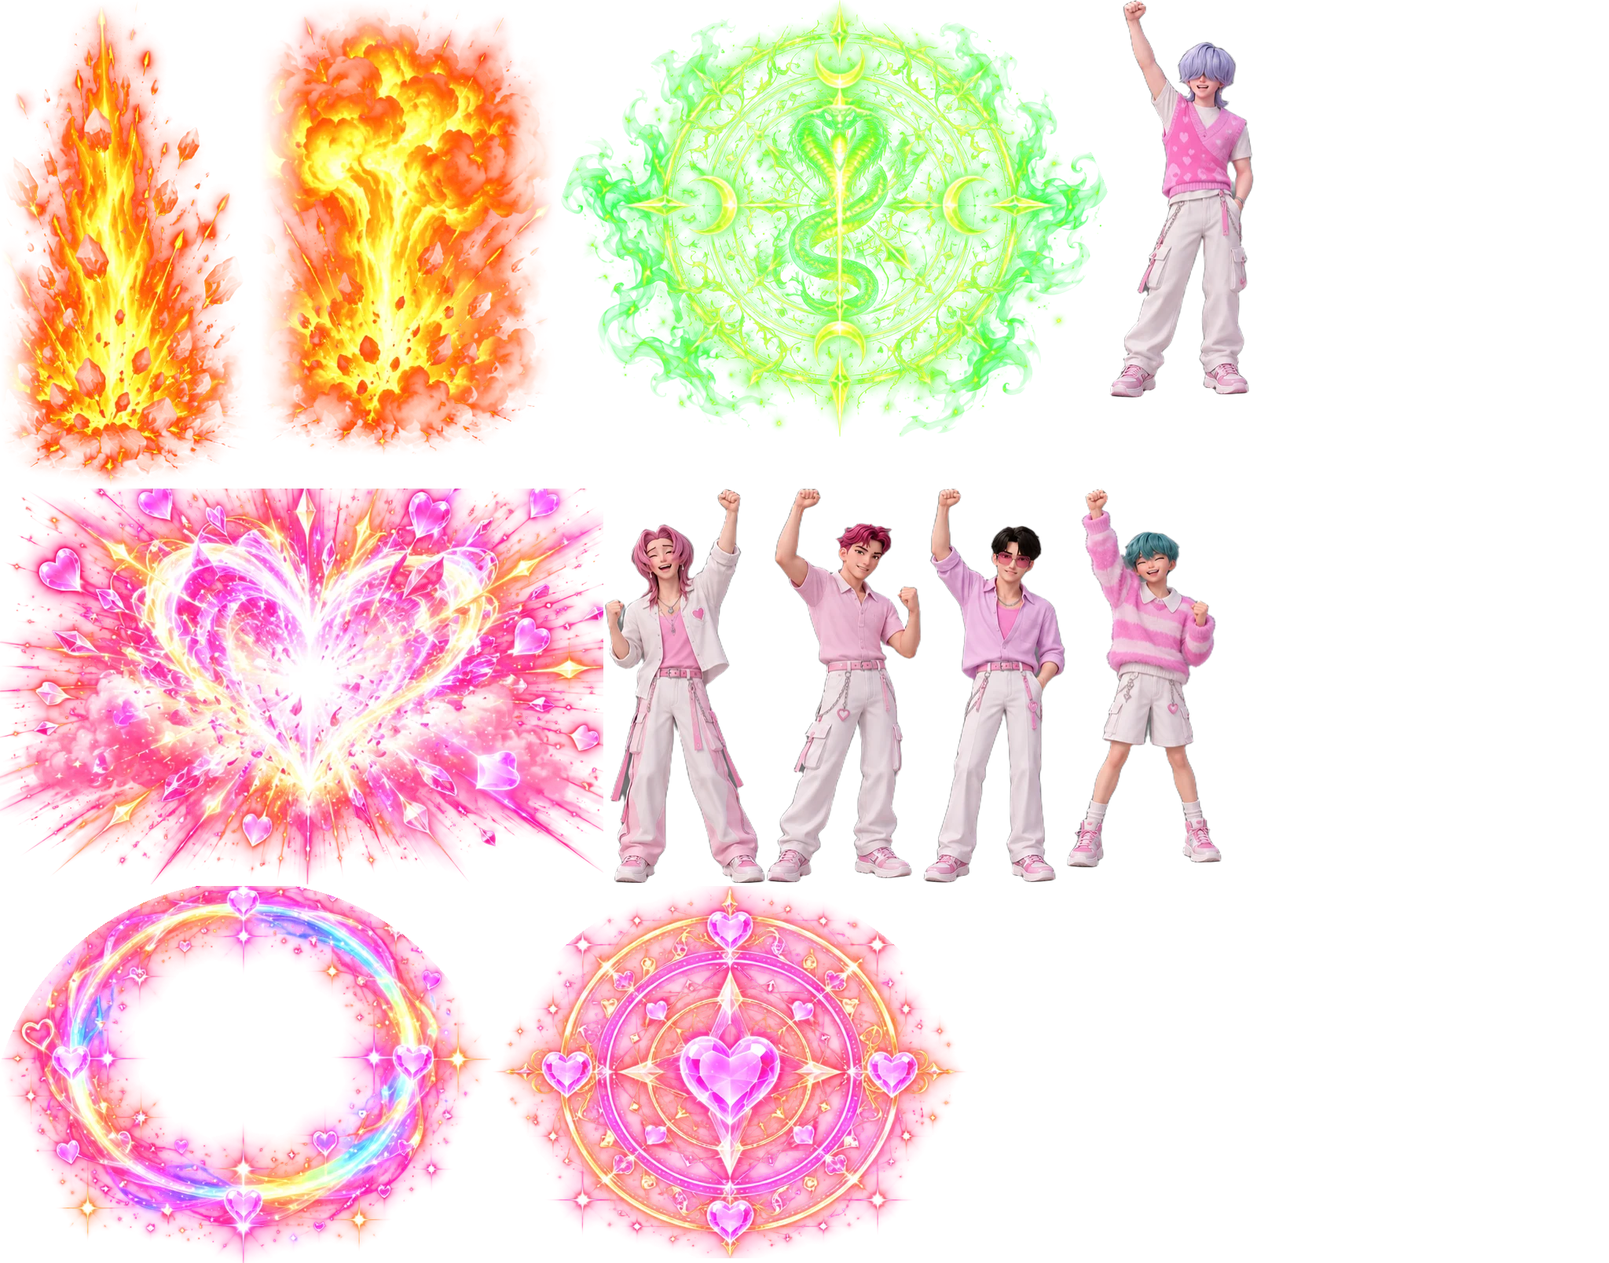
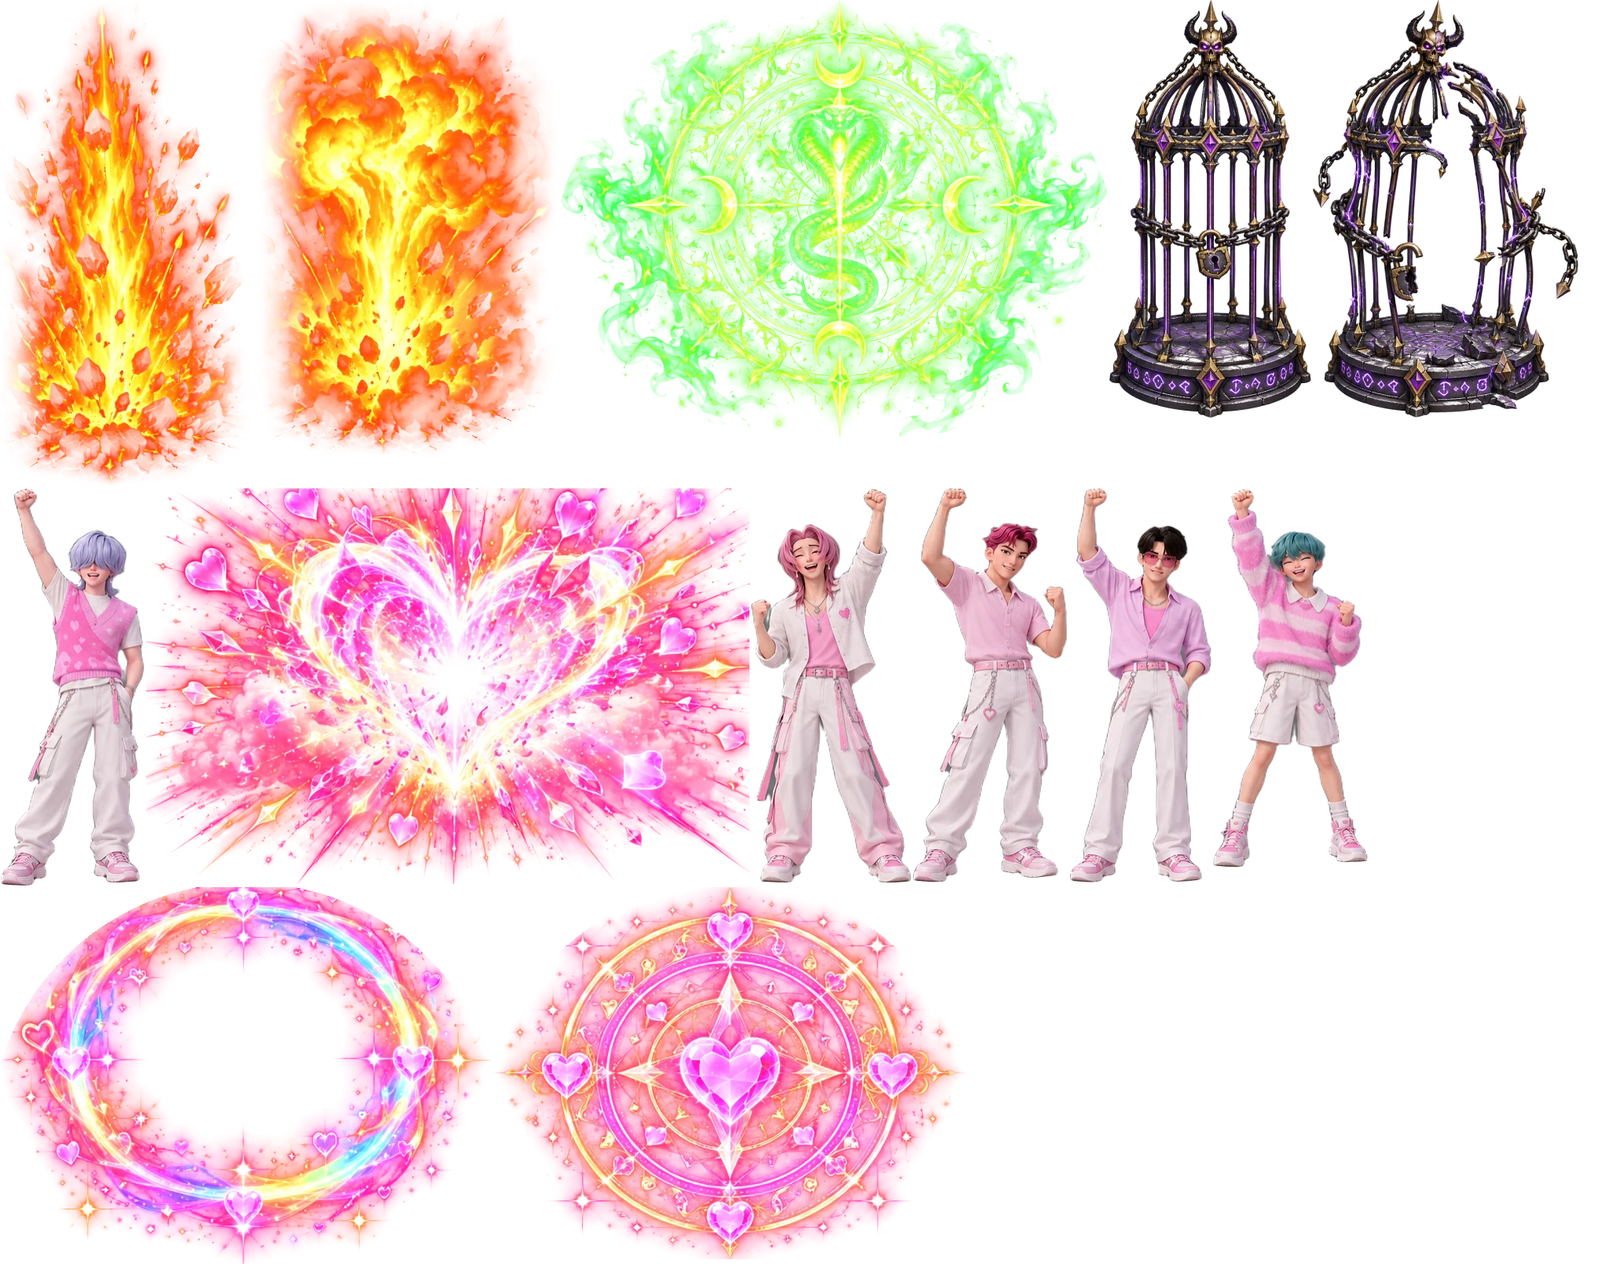
v3: map 2 đường mới không vòng, lồng giam HUNTR/X to giữa sân trên đường + ổ quái canh, cảnh giải cứu (zoom, thoát lồng, tuyệt chiêu diệt quái, cảm ơn), các chị thấp lại 80%, nút bản mới ở góc trên
Claude-Session: https://claude.ai/code/session_018CdmaGRbzjkocUF5TVUzxd

diff --git a/index.html b/index.html
@@ -97,7 +97,7 @@
   #banner.show { opacity: 1; transform: scale(1); }
 
   /* Screens */
-  .ver { margin-top: 1.4em; display: flex; gap: .8em; justify-content: center; align-items: center; font-size: .78em; opacity: .85; }
+  .ver { position: absolute; top: max(1.2vh, env(safe-area-inset-top)); right: max(1.5vw, env(safe-area-inset-right)); display: flex; gap: .8em; justify-content: center; align-items: center; font-size: .78em; opacity: .85; }
   .ver button { font: inherit; font-weight: 700; color: #fff; background: rgba(255,255,255,.14); border: 1px solid rgba(255,255,255,.35); border-radius: 99px; padding: .35em 1em; }
   .ver button.new { background: #ff5a9d; border-color: #ffd1e6; opacity: 1; animation: verPulse 1s ease-in-out infinite alternate; }
   @keyframes verPulse { to { transform: scale(1.08); } }
@@ -184,8 +184,8 @@
     <div class="help"><span>Cần trái: <b>đi khắp nơi</b></span><span>Bé <b>tự bắn</b> quái gần nhất</span><span>Đầy năng lượng: <b>Tuyệt chiêu</b></span></div>
     <p id="loading">Đang tải hình ảnh…</p>
     <div class="row"><button class="btn" id="startBtn" hidden>Chơi một mình</button><button class="btn ghost" id="coopBtn" hidden>Chơi 2 người</button></div>
-    <div class="ver"><span id="verNum"></span><button id="verBtn">Kiểm tra bản mới</button></div>
   </div>
+  <div class="ver"><span id="verNum"></span><button id="verBtn">Kiểm tra bản mới</button></div>
 </div>
 
 <div class="screen" id="coopScreen" hidden>
@@ -259,7 +259,7 @@
   let META = null, ready = false;
   function loadImg(src) { return new Promise((res, rej) => { const i = new Image(); i.onload = () => res(i); i.onerror = rej; i.src = src; }); }
   // ---------------------------------------------------------------- version: the site build stamps BUILD_VER and writes version.json beside the page
-  const BUILD_VER = "261025.1614", isBuilt = !BUILD_VER.startsWith("__");
+  const BUILD_VER = "261025.1627", isBuilt = !BUILD_VER.startsWith("__");
   async function latestVer() {
     try { return (await (await fetch("version.json?x=" + Date.now(), { cache: "no-store" })).json()).v; } catch (e) { return null; }
   }
@@ -499,7 +499,7 @@
       deco: [["tree", 3], ["bush", 4], ["mushrooms", 1], ["pumpkin2", 1], ["pumpkin3", 1]],
       gr: { base: "#679c4a", patch: ["#84b75c", "#558a3e", "#76a94f"], blade: ["#93c96a", "#4f8a3a", "#a6d77a"], dot: ["#ffd3f0", "#fff3b0", "#ffffff", "#ff9ec7", "#c9b6ff"], nDot: 70,
         stone: ["#e3d4b4", "#d8c7a3", "#cdb995"], gap: "#9c8a6c", edge: "#6f5d44" } },
-    { name: "Màn 2: Rừng Ma", seed: 2207, path: "loop", arena: true, boss: { art: "mboss_d1", name: "Nhện Chúa Rừng Ma", hp: 40, tip: "Nhện chúa nhảy vồ và phun tơ!", summon: "spider", style: "spider" }, quota: 140, spawn: [0.8, 1.7], camps: 10, pets: ["zoey"],
+    { name: "Màn 2: Rừng Ma", seed: 2207, path: "bends", arena: true, boss: { art: "mboss_d1", name: "Nhện Chúa Rừng Ma", hp: 40, tip: "Nhện chúa nhảy vồ và phun tơ!", summon: "spider", style: "spider" }, quota: 140, spawn: [0.8, 1.7], camps: 10, pets: ["zoey"],
       kinds: [["spider", 3, 0], ["ghost", 2, 0], ["bat", 2, 0.1], ["mummy", 2, 0.3]],
       deco: [["tree", 4], ["mushrooms", 4], ["bush", 2], ["pumpkin3", 1]],
       gr: { base: "#3f5340", patch: ["#536b4a", "#2f3f34", "#4d4466", "#45405c"], blade: ["#5f7d55", "#2c3a2e", "#6b5f86"], dot: ["#b9a4ff", "#7cf2c6", "#e0b8ff"], nDot: 45,
@@ -521,7 +521,7 @@
       gr: { base: "#241a38", patch: ["#2e2248", "#1d1530", "#3a2a58"], blade: ["#3b2d58", "#2a2044"], dot: ["#ff6ec7", "#7cf2ff", "#ffd34d"], nDot: 24, tiles: true,
         stone: ["#3a2f55", "#332a4c", "#2c2442"], gap: "#18122a", edge: "#120c20" } },
   ];
-  const PATH_W = 270, STEP = 40, ARENA_R = 860, MAX_MONS = 120;
+  const PATH_W = 270, STEP = 40, ARENA_R = 860, MAX_MONS = 120, PLAZA_R = 400;
   // each level brings a stronger breed of the same monsters, tinted so it reads as new: hp multiplier, speed, hue.
   // Health also grows with the girls' level, so the monsters never turn into paper.
   const TIERS = [
@@ -635,7 +635,7 @@
 
   // ---------------------------------------------------------------- game state
   const G = { mode: "title", level: 0, t: 0, lt: 0, frame: 0, stars: 0, hearts: 5, energy: 0, camX: 0, camY: 0, shake: 0, fade: 0, fadeDir: 0, onFade: null,
-    mons: [], parts: [], shots: [], pshots: [], foes: [], items: [], drops: [], gems: [], rings: [], quakes: [], chests: [], cages: [], deco: [], lamps: [],
+    mons: [], parts: [], shots: [], pshots: [], foes: [], items: [], drops: [], gems: [], rings: [], quakes: [], plazas: [], chests: [], cages: [], deco: [], lamps: [],
     portal: null, arena: null, boss: null, ult: null, nextId: 1, lvl: null, kills: 0, lvKills: 0, spawnAcc: 0, surgeT: 30, arenaLock: false, won: false, path: null };
   const P = { x: 0, y: 0, vx: 0, vy: 0, z: 0, face: 0, flip: false, moving: false, dist: 0, inv: 0, hurtT: 0, slowT: 0, castT: 0, shootCd: 0, dead: false, winT: 0,
     elem: null, elemT: 0, lv: 1, xp: 0, prog: 0, pets: [] };
@@ -658,6 +658,9 @@
     if (shape === "river") {
       const n = 8, half = WORLD * 0.38, ph = R() < 0.5 ? 0 : Math.PI;
       for (let i = 0; i < n; i++) { const t = i / (n - 1); cps.push(rot(-half + 2 * half * t, Math.sin(t * Math.PI * 2.5 + ph) * 1500 * amp * (i && i < n - 1 ? 1 : 0.4))); }
+    } else if (shape === "bends") {
+      const half = WORLD * 0.4, side = R() < 0.5 ? 1 : -1, vs = [-1500, 900, 2500, 1700, -700, -2500, -1500, 700];
+      for (let i = 0; i < vs.length; i++) cps.push(rot(-half + 2 * half * i / (vs.length - 1), side * vs[i] * Math.min(1.25, amp)));
     } else if (shape === "loop") {
       const half = WORLD * 0.38, r = 1250 * Math.min(1.4, amp), side = R() < 0.5 ? 1 : -1;
       cps.push(rot(-half, -600 * side), rot(-half * 0.55, 500 * side), rot(-r * 1.1, 0));
@@ -780,6 +783,8 @@
     if (!L.arena) G.portal = { x: path.x[N - 1], y: path.y[N - 1], open: false, t: 0 };
     // treasure chests, star trails, the pet cage, lanterns
     const offAt = (s, side, off) => { const i = clamp(Math.round(s / STEP), 0, endI), [dx, dy] = pathDir(i); return [path.x[i] - dy * side * off, path.y[i] + dx * side * off]; };
+    G.plazas = [];
+    for (const k of L.pets || []) if (isAlly(k)) { const [x, y] = offAt(PETS[k].at * path.len, 1, 0); G.plazas.push({ x, y, r: PLAZA_R, kind: k }); }
     G.chests = [];
     for (const f of [0.14, 0.3, 0.46, 0.62, 0.78, 0.92]) {
       if ((L.pets || []).some((k) => Math.abs(f - PETS[k].at) < 0.06)) continue;
@@ -793,7 +798,7 @@
     const gap = 0.8 * path.len / (L.camps + 2);
     for (let sd = 0.1 * path.len; sd < 0.92 * path.len && G.camps.length < L.camps; ) {
       const [x, y] = offAt(sd, RC() < 0.5 ? -1 : 1, PATH_W * 0.2 + RC() * 120);
-      if (G.camps.some((c) => d2(c.x, c.y, x, y) < (CAMP_R * 2.2) ** 2)) { sd += 160; continue; }
+      if (G.camps.some((c) => d2(c.x, c.y, x, y) < (CAMP_R * 2.2) ** 2) || G.plazas.some((c) => d2(c.x, c.y, x, y) < (CAMP_R * 2.4) ** 2)) { sd += 160; continue; }
       const f = sd / path.len, ks = L.kinds.filter((a) => a[2] <= f * 0.6 + 0.001), k = G.camps.length;
       G.camps.push({ x, y, n: Math.round(12 + 12 * f + 2 * i), elite: k % 2 === 1, boss: ks[Math.floor(RC() * ks.length)][0], st: 0, left: 0, t: 0 });
       sd += gap;
@@ -803,8 +808,13 @@
     G.cages = [];
     // a cage only when its sister plays (in co-op always, so both pages build the same level)
     for (const k of L.pets || []) {
-      const [x, y] = offAt(PETS[k].at * path.len, R() < 0.5 ? -1 : 1, PATH_W / 2 + 70), own = PETS[k].owner === hero || isAlly(k);
-      if (NET.role || (own && !P.pets.includes(k))) G.cages.push({ kind: k, x, y, open: false, t: 0 });
+      let [x, y] = offAt(PETS[k].at * path.len, R() < 0.5 ? -1 : 1, PATH_W / 2 + 70); const own = PETS[k].owner === hero || isAlly(k);
+      const pz = G.plazas.find((z) => z.kind === k); if (pz) { x = pz.x; y = pz.y; }
+      if (NET.role || (own && !P.pets.includes(k))) {
+        G.cages.push({ kind: k, x, y, open: false, t: 0, big: !!pz });
+        // her jailers: a camp all round the cage
+        if (pz) G.camps.push({ x, y, n: 16 + 3 * i, elite: true, boss: L.kinds[Math.min(L.kinds.length - 1, 1)][0], st: 0, left: 0, t: 0, cage: k });
+      }
     }
     G.items = [];
     for (let s = 500; s < path.len - 300; s += 380 + R() * 160) {
@@ -824,6 +834,10 @@
         if (Math.abs(off) > PATH_W / 2 - 22) continue;
         G.stones.push({ x: path.x[s] - dy * off + dx * (R() - 0.5) * 10, y: path.y[s] + dx * off + dy * (R() - 0.5) * 10, rx: 21 + R() * 6, ry: 16 + R() * 5, rot: ang + (R() - 0.5) * 0.5, c: Math.floor(R() * 3) });
       }
+    }
+    for (const A of G.plazas) for (let rr = 60; rr < A.r - 30; rr += 62) {
+      const n = Math.max(4, Math.floor(TAU * rr / 74)), o = R() * TAU;
+      for (let k = 0; k < n; k++) { const a = o + k / n * TAU; G.stones.push({ x: A.x + Math.cos(a) * rr, y: A.y + Math.sin(a) * rr, rx: 28 + R() * 4, ry: 22 + R() * 3, rot: a + Math.PI / 2, c: Math.floor(R() * 3) }); }
     }
     if (G.arena) {
       const A = G.arena;
@@ -850,6 +864,7 @@
       if (x < 120 || y < 120 || x > WORLD - 120 || y > WORLD - 120) return false;
       if (nearestSample(x, y, PATH_W / 2 + 90).i >= 0) return false;
       if (G.arena && d2(x, y, G.arena.x, G.arena.y) < (G.arena.r + 160) ** 2) return false;
+      for (const z of G.plazas) if (d2(x, y, z.x, z.y) < (z.r + 140) ** 2) return false;
       for (const k of keepOut) if (d2(x, y, k.x, k.y) < 260 * 260) return false;
       const gap = name === "tree" ? 170 : 95;
       for (const d of decoNear(x, y, gap)) if (d2(x, y, d.x, d.y) < gap * gap) return false;
@@ -962,11 +977,17 @@
       g.stroke();
     };
     const A = G.arena, arenaHere = A && A.x + A.r + 60 > x0 && A.x - A.r - 60 < x0 + S && A.y + A.r + 60 > y0 && A.y - A.r - 60 < y0 + S;
-    const disc = (r, col, a) => { if (!arenaHere) return; g.globalAlpha = a; g.fillStyle = col; g.beginPath(); g.arc(A.x, A.y, r, 0, TAU); g.fill(); };
-    if (runs.length || arenaHere) {
-      strokeRuns(PATH_W + 70, "#000", 0.13); disc(A ? A.r + 50 : 0, "#000", 0.15);
-      strokeRuns(PATH_W + 26, T.edge, 1); disc(A ? A.r + 22 : 0, T.edge, 1);
-      strokeRuns(PATH_W, T.gap, 1); disc(A ? A.r : 0, T.gap, 1);
+    const pzs = (G.plazas || []).filter((z) => z.x + z.r + 60 > x0 && z.x - z.r - 60 < x0 + S && z.y + z.r + 60 > y0 && z.y - z.r - 60 < y0 + S);
+    const disc = (d, col, a) => {
+      g.globalAlpha = a; g.fillStyle = col; g.beginPath();
+      if (arenaHere) { g.moveTo(A.x + A.r + d, A.y); g.arc(A.x, A.y, A.r + d, 0, TAU); }
+      for (const z of pzs) { g.moveTo(z.x + z.r + d, z.y); g.arc(z.x, z.y, z.r + d, 0, TAU); }
+      g.fill();
+    };
+    if (runs.length || arenaHere || pzs.length) {
+      strokeRuns(PATH_W + 70, "#000", 0.13); disc(50, "#000", 0.15);
+      strokeRuns(PATH_W + 26, T.edge, 1); disc(22, T.edge, 1);
+      strokeRuns(PATH_W, T.gap, 1); disc(0, T.gap, 1);
       g.globalAlpha = 1;
       for (let ci = 0; ci < 3; ci++) {
         g.fillStyle = T.stone[ci]; g.beginPath();
@@ -1681,6 +1702,97 @@
   }
   function openCageFx(c) {
     SFX.unlock(); burst(c.x, c.y - 80, 30, ["#fff4c2", "#ffd34d", PETS[c.kind].col], 420, 0.8);
+    if (isAlly(c.kind) && c.big) startRescue(c);
+  }
+  // ---------------------------------------------------------------- the rescue scene: the camera closes in on the cage,
+  // she breaks out, wipes out her jailers with her ultimate, thanks the girls, then joins them. The world waits meanwhile.
+  const RS_OUT = 0.9, RS_ULT = 1.7, RS_HIT = 2.5, RS_THANK = 3.6, RS_END = 6.0;
+  function startRescue(c) {
+    if (G.rescue) return;
+    const qNear = Q && NET.role && !Q.dead && d2(Q.x, Q.y, c.x, c.y) < d2(P.x, P.y, c.x, c.y);
+    G.rescue = { kind: c.kind, x: c.x, y: c.y, t: 0, by: qNear ? HEROES[Q.hero].name : HD().name, hit: false };
+    P.vx = P.vy = 0;
+  }
+  function updateRescue(dt) {
+    const r = G.rescue, D = PETS[r.kind], t0 = r.t; r.t += dt;
+    const at = (x) => t0 < x && r.t >= x;
+    P.inv = Math.max(P.inv, 1.5); P.moving = false;
+    if (at(0.25)) { SFX.slam(); G.shake = 14; for (let i = 0; i < 14; i++) G.parts.push({ type: "rock", x: r.x, y: r.y - 40, z: rnd(60, 200), vx: rnd(-420, 420), vy: rnd(-200, 260), vz: rnd(300, 800), rot: rnd(0, 6), vr: rnd(-10, 10), name: "qk_rock2", sc: rnd(0.3, 0.6), life: 2, max: 2 }); burst(r.x, r.y - 150, 50, [D.col, "#fff", "#ffd34d"], 620, 1); }
+    if (at(RS_OUT)) showBanner(D.name + " được tự do!", "");
+    if (at(RS_ULT)) { SFX.charge(); }
+    if (at(RS_HIT)) {
+      // her ultimate: every monster round the cage is gone
+      SFX.boom(); G.shake = 26;
+      G.parts.push({ type: "ring", x: r.x, y: r.y - 40, r: 60, vr: 2600, life: 0.9, max: 0.9, col: D.rgb });
+      if (NET.role !== "guest") for (const m of G.mons) if (m.alive && !m.c.heavy && d2(m.x, m.y, r.x, r.y) < 1500 * 1500) killMon(m, false);
+      for (const cp of G.camps) if (cp.cage === r.kind) cp.left = Math.min(cp.left, 0);
+    }
+    if (at(RS_THANK)) { SFX.level && SFX.level(); $("banner").classList.remove("show"); }
+    if (r.t >= RS_END) {
+      G.rescue = null;
+      // she steps into the team right where she stood
+      for (const e of [...PETE, ...QPETE]) if (e.kind === r.kind) { e.x = r.x + 40; e.y = r.y + 30; }
+      showBanner(D.name + " đi cùng các bé!", D.tip);
+    }
+  }
+  const rsEase = (t) => t * t * (3 - 2 * t);
+  const rescueZoom = () => { const r = G.rescue; if (!r) return 1; const k = Math.min(rsEase(clamp(r.t / 0.7, 0, 1)), 1 - rsEase(clamp((r.t - (RS_END - 0.6)) / 0.6, 0, 1))); return 1 + 0.55 * k; };
+  // drawn over the scene: her, her ultimate, her thanks
+  function drawRescue() {
+    const r = G.rescue; if (!r) return;
+    const D = PETS[r.kind], t = r.t, out = clamp((t - 0.25) / (RS_OUT - 0.25), 0, 1);
+    const x = r.x, y = r.y + 70 * rsEase(out);
+    // the girl inside: dimmed in the cage, then bright as she steps out
+    glow(x, y - 150, 260, D.rgb, 0.35 + 0.4 * out);
+    const ult = t >= RS_ULT && t < RS_THANK, k = clamp((t - RS_ULT) / (RS_THANK - RS_ULT), 0, 1);
+    let lift = 0;
+    if (ult) lift = Math.sin(Math.min(1, k * 1.6) * Math.PI) * (D.style === "sweep" ? 60 : 140);
+    drawAlly({ kind: r.kind, x, y: y - lift, face: 0, flip: false, moving: false, i: 0, dist: 0, at: ult ? (k * 1.6 % 1) * petAtkLen(r.kind) : -1 }, D);
+    if (t >= RS_ULT && t < RS_HIT + 0.6) {
+      const a = clamp(1 - (t - RS_HIT) / 0.6, 0, 1) * clamp((t - RS_ULT) / 0.3, 0, 1);
+      ctx.save(); ctx.globalCompositeOperation = "lighter";
+      if (D.style === "knives") {
+        // a storm of glowing knives spinning out in rings
+        for (let ring = 0; ring < 3; ring++) for (let i = 0; i < 14; i++) {
+          const an = i / 14 * TAU + ring * 0.22 + (t - RS_ULT) * (ring % 2 ? -2 : 2), rr = 120 + ((t - RS_ULT) * 900 + ring * 260) % 1300;
+          drawKnife(x + Math.cos(an) * rr, y - 80 + Math.sin(an) * rr * 0.62, an, a);
+        }
+      } else if (D.style === "sweep") {
+        // the glaive whirls round and round, wider each turn
+        for (let i = 0; i < 4; i++) {
+          const rr = 200 + i * 260 + (t - RS_ULT) * 300, a0 = (t - RS_ULT) * 9 + i * 1.3;
+          ctx.save(); ctx.translate(x, y - 60); ctx.scale(1, 0.62); ctx.lineCap = "round";
+          ctx.strokeStyle = `rgba(${D.rgb},${0.8 * a})`; ctx.lineWidth = 60; ctx.beginPath(); ctx.arc(0, 0, rr, a0, a0 + 2.6); ctx.stroke();
+          ctx.strokeStyle = `rgba(255,255,255,${0.9 * a})`; ctx.lineWidth = 14; ctx.stroke(); ctx.restore();
+        }
+      } else {
+        // sword cuts flashing across the whole clearing
+        for (let i = 0; i < 7; i++) {
+          const ph = clamp((t - RS_ULT - i * 0.1) / 0.35, 0, 1); if (ph <= 0) continue;
+          const an = i * 2.4 + 0.4, len = 1300, cx = x + Math.cos(an * 1.7) * 160, cy = y - 60 + Math.sin(an * 1.3) * 100;
+          const ex = Math.cos(an) * len / 2, ey = Math.sin(an) * len / 2 * 0.62, f = (1 - Math.abs(ph * 2 - 1));
+          ctx.strokeStyle = `rgba(${D.rgb},${0.85 * a * f + 0.15 * a})`; ctx.lineWidth = 46 * f + 6; ctx.lineCap = "round";
+          ctx.beginPath(); ctx.moveTo(cx - ex * ph, cy - ey * ph); ctx.lineTo(cx + ex * ph, cy + ey * ph); ctx.stroke();
+          ctx.strokeStyle = `rgba(255,255,255,${a * f})`; ctx.lineWidth = 12 * f + 2; ctx.stroke();
+        }
+      }
+      ctx.restore();
+      if (t >= RS_HIT && t < RS_HIT + 0.35) { ctx.save(); ctx.globalAlpha = 0.5 * (1 - (t - RS_HIT) / 0.35); ctx.fillStyle = "#fff"; ctx.fillRect(G.camX - 200, G.camY - 200, VW + 400, VH + 400); ctx.restore(); }
+    }
+    if (t >= RS_THANK) {
+      const k2 = clamp((t - RS_THANK) / 0.3, 0, 1), names = Q && NET.role ? HEROES.g.name + " và " + HEROES.s.name : r.by;
+      bubble("Cảm ơn " + names + " nhé!", "Từ giờ mình đi cùng các bé!", x, y - 330, k2);
+    }
+  }
+  function bubble(l1, l2, x, y, k) {
+    ctx.save(); ctx.globalAlpha = k; ctx.translate(x, y); ctx.scale(0.8 + 0.2 * k, 0.8 + 0.2 * k);
+    ctx.font = "800 44px Grandstander, system-ui"; const w = Math.max(ctx.measureText(l1).width, ctx.measureText(l2).width * 0.8) + 70;
+    ctx.fillStyle = "#fff"; ctx.strokeStyle = "rgba(60,30,80,.5)"; ctx.lineWidth = 5;
+    rrect(ctx, -w / 2, -110, w, 130, 34); ctx.fill(); ctx.stroke();
+    ctx.beginPath(); ctx.moveTo(-26, 18); ctx.lineTo(0, 60); ctx.lineTo(26, 18); ctx.fill();
+    ctx.textAlign = "center"; ctx.fillStyle = "#4a2160"; ctx.fillText(l1, 0, -48);
+    ctx.font = "700 34px Grandstander, system-ui"; ctx.fillStyle = "#8a4fb0"; ctx.fillText(l2, 0, -6);
+    ctx.restore();
   }
   function rescuePet(kind) {
     if (kind === "cat") SFX.meow();
@@ -2615,6 +2727,15 @@
       if (G.fadeDir > 0 && G.fade >= 1) { const f = G.onFade; G.onFade = null; G.fadeDir = -1; f && f(); }
       else if (G.fadeDir < 0 && G.fade <= 0) G.fadeDir = 0;
     }
+    if (G.rescue && G.mode === "play") {
+      netFrame(dt); updateRescue(dt);
+      for (const m of G.mons) if (!m.alive) m.die += dt;
+      G.mons = G.mons.filter((m) => m.alive || m.die < 0.6);
+      const r = G.rescue, tx = clamp(r ? r.x - VW / 2 : G.camX, 0, WORLD - VW), ty = clamp(r ? r.y - 180 - VH / 2 : G.camY, 0, WORLD - VH), k = 1 - Math.pow(0.02, dt);
+      G.camX = lerp(G.camX, tx, k); G.camY = lerp(G.camY, ty, k); G.shake = Math.max(0, G.shake - 40 * dt);
+      updateParts(dt);
+      return;
+    }
     if (API.autopilot && G.energy >= 100 && (aliveCount() > 14 || (G.boss && G.boss.alive && G.boss.st !== "enter") || G.mons.some((m) => m.alive && m.c.heavy && !m.shield))) IN.ultPressed = true;
     if (IN.ultPressed) { IN.ultPressed = false; startUlt(); }
     updateHero(dt);
@@ -3045,6 +3166,7 @@
   }
   function drawPet(p) {
     const D = PETS[p.kind];
+    if (G.rescue && G.rescue.kind === p.kind) return;
     if (!D.art && G.cine && G.cine.ph === "outro") p = { ...p, dist: G.t * 300, moving: true };
     if (D.art && dirN(`${D.art}_d${p.face}_w`)) return drawAlly(p, D);
     const pre = `pet_${p.kind}_d${p.face}_w`, n = dirN(pre);
@@ -3090,6 +3212,17 @@
   }
   function drawCage(c) {
     const D = PETS[c.kind];
+    if (c.big) {
+      const cg = FR.cage_big, co = FR.cage_big_open;
+      shadow(c.x, c.y, 130, 30);
+      if (!c.open) {
+        glow(c.x, c.y - 200, 260, D.rgb, 0.35 + 0.12 * Math.sin(G.t * 3));
+        drawAlly({ kind: c.kind, x: c.x, y: c.y - 14, face: 0, flip: false, moving: false, i: 0, dist: 0, at: -1 }, D);
+        if (cg) spr(cg, c.x, c.y); else spr(PROPS.cage, c.x, c.y, false, 1.7);
+        label("Cứu " + D.name + "!", c.x, c.y - (cg ? cg.ay * cg.s : 420) - 30, 44);
+      } else if (co) spr(co, c.x, c.y); else spr(PROPS.cageOpen, c.x, c.y, false, 1.7, 0.85);
+      return;
+    }
     shadow(c.x, c.y, 70, 16);
     if (!c.open) {
       glow(c.x, c.y - 100, 160, D.rgb, 0.35 + 0.12 * Math.sin(G.t * 3));
@@ -3347,7 +3480,9 @@
     if (resDirty) { const r = clamp(SCALE * DPR * 0.75, 0.35, 0.9); if (Math.abs(r - chunkRes) > 0.04) { chunkRes = r; chunkCache.clear(); } resDirty = false; }
     const sc = SCALE * DPR, offX = (W - VW * sc) / 2, offY = (H - VH * sc) / 2;
     const shx = G.shake ? rnd(-G.shake, G.shake) : 0, shy = G.shake ? rnd(-G.shake, G.shake) : 0;
-    ctx.setTransform(sc, 0, 0, sc, offX + (shx - G.camX) * sc, offY + (shy - G.camY) * sc);
+    // zoomed in (the rescue scene) around the middle of the view
+    const zm = rescueZoom(), zs = sc * zm;
+    ctx.setTransform(zs, 0, 0, zs, offX + (VW / 2 - (G.camX + VW / 2 - shx) * zm) * sc, offY + (VH / 2 - (G.camY + VH / 2 - shy) * zm) * sc);
     const L = G.camX, R = G.camX + VW, T = G.camY, B = G.camY + VH;
     // ground chunks (a couple of new ones painted per frame)
     chunkBudget = 2;
@@ -3411,6 +3546,7 @@
     for (const sh of G.pshots) drawBolt(sh.x, sh.y - BOLT_Z, sh.vx, sh.vy, sh.elem, sh.hk, sh.sc);
     drawGwimaGone();
     drawQuakesAir();
+    drawRescue();
     drawParts(L, R, T, B);
     drawCineFx(L, T);
     drawCombo(L, T);
@@ -3492,6 +3628,7 @@
   }
   let bannerTimer = 0;
   function showBanner(text, small) {
+    if (G.rescue && G.rescue.t > RS_OUT + 0.05) return;   // the rescue scene speaks for itself
     const b = $("banner"); b.innerHTML = ""; b.append(text);
     if (small) { const s = document.createElement("small"); s.textContent = small; b.append(s); }
     b.classList.add("show"); clearTimeout(bannerTimer); bannerTimer = setTimeout(() => b.classList.remove("show"), 1900);
